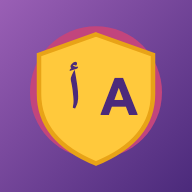
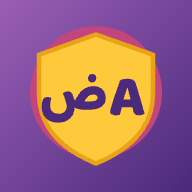
تحديث أيقونة التطبيق: حرفا الضاد وA بخط الأطفال المستدير داخل الدرع

Changed region(s): [[0.1875, 0.3125, 0.75, 0.6562]]

diff --git a/sw.js b/sw.js
@@ -1,6 +1,6 @@
 // يحفظ ملفات اللعبة على الجهاز لتعمل بدون إنترنت
 // غيّر رقم الإصدار عند تعديل أي ملف حتى يحدَّث الكاش
-const CACHE = 'spelling-hero-v6';
+const CACHE = 'spelling-hero-v7';
 const FILES = [
   './',
   'index.html',
